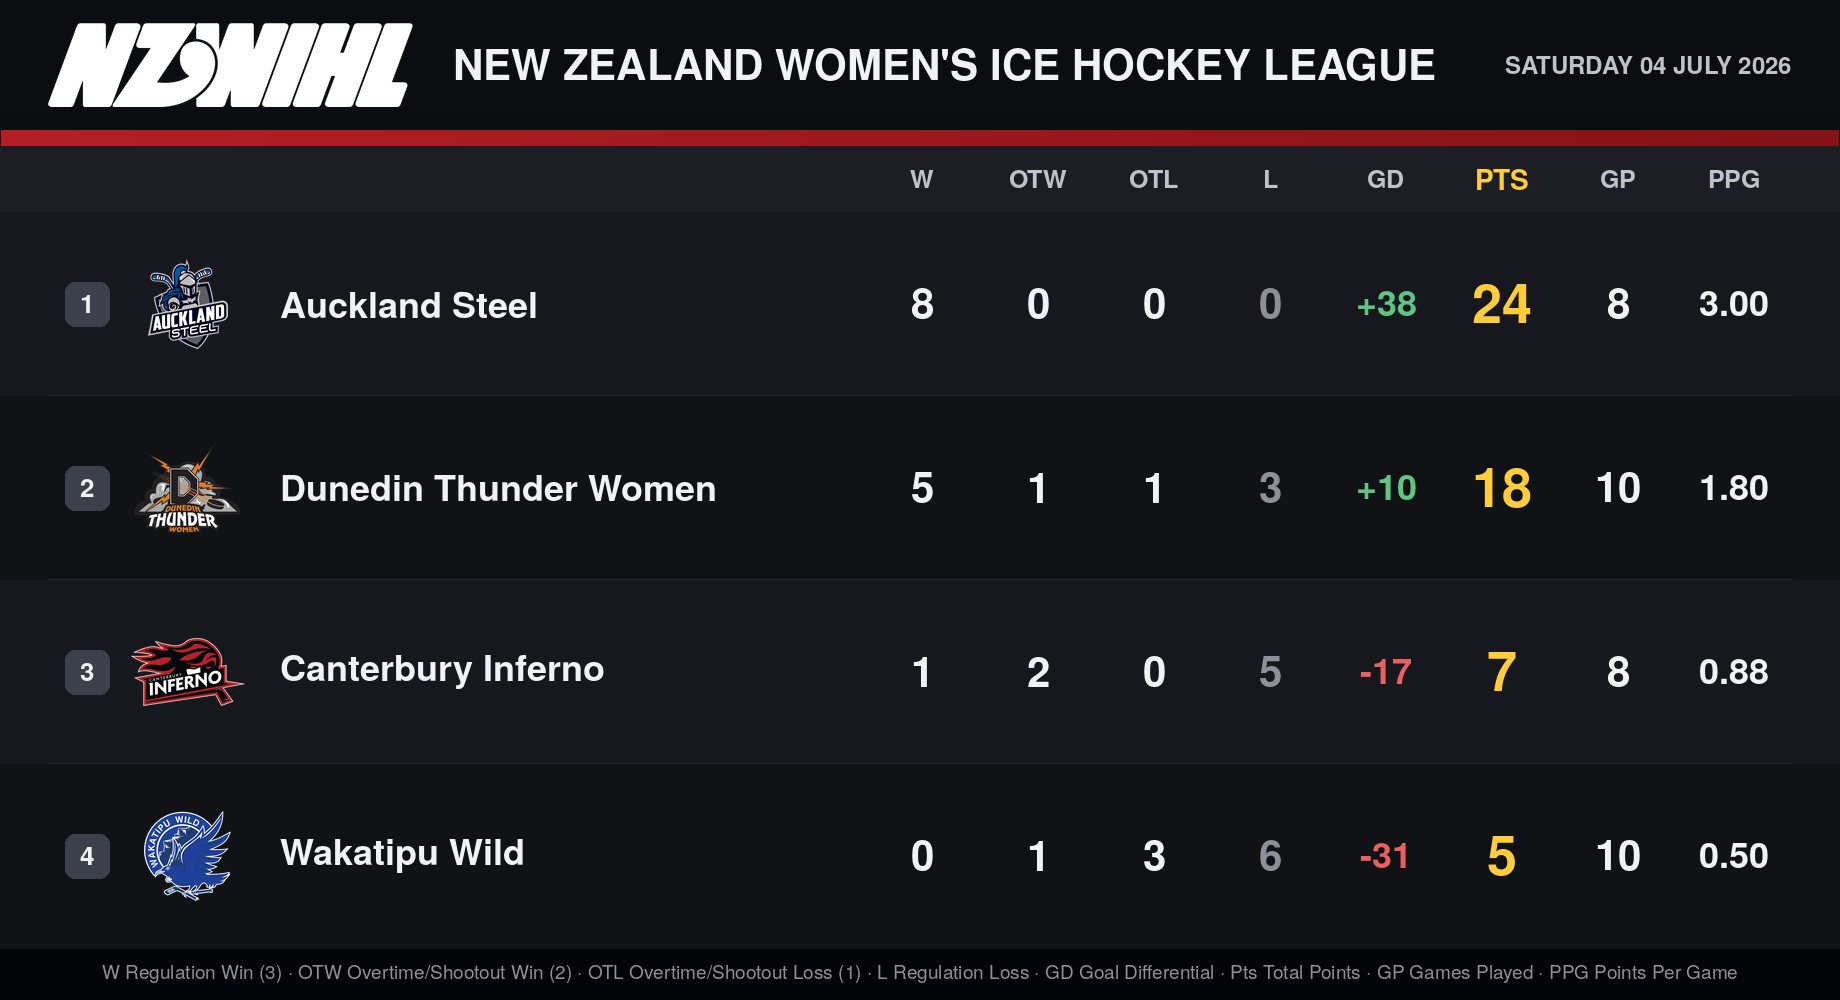
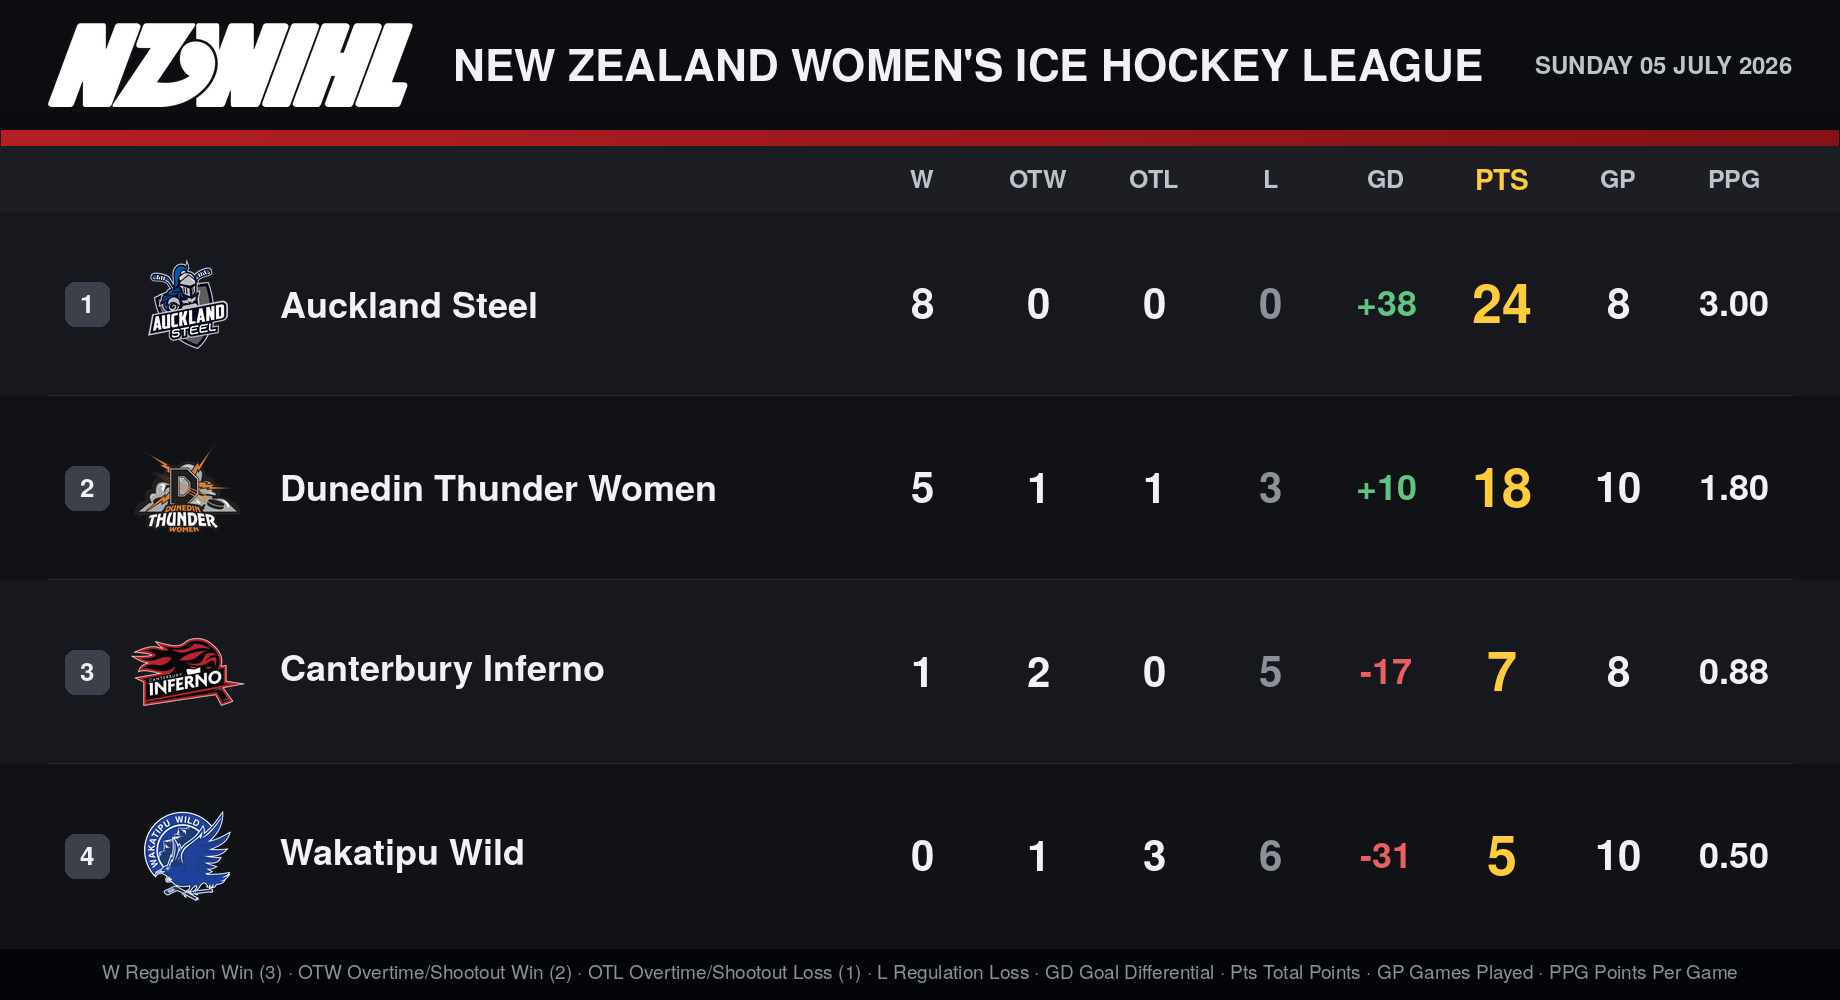
Fix standings date stamp: use NZ local date, not runner UTC date
The nightly cron fires at 14:00 UTC (02:00-03:00 NZ time), so
dt.date.today() on the ubuntu-latest runner always returned the UTC
calendar date - one day behind NZ time every single run. Graphics were
permanently dated 'yesterday'. Now uses zoneinfo Pacific/Auckland.

Changed region(s): [[0.2478, 0.031, 0.8674, 0.093]]

diff --git a/build_standings.py b/build_standings.py
@@ -16,10 +16,13 @@ import sys
 from dataclasses import dataclass
 from pathlib import Path
 from typing import Dict, List, Optional
+from zoneinfo import ZoneInfo
 
 import requests
 from bs4 import BeautifulSoup
 from PIL import Image, ImageDraw, ImageFont, ImageFilter
+
+NZ_TZ = ZoneInfo("Pacific/Auckland")
 
 # --- Paths -----------------------------------------------------------------
 HERE       = Path(__file__).resolve().parent
@@ -412,7 +415,9 @@ def render(cfg: LeagueConfig, teams: List[Dict], *,
 
     wordmark_x = LEFT_EDGE + league_logo.width + 40
     # Reserve room for the date stamp on the right side
-    date_str = dt.date.today().strftime("%A %d %B %Y").upper()
+    # Use NZ local date, not the Actions runner's UTC date — the runner's UTC
+    # clock is still "yesterday" whenever this fires at 02:00-03:00 NZ time.
+    date_str = dt.datetime.now(NZ_TZ).date().strftime("%A %d %B %Y").upper()
     date_w = draw.textbbox((0, 0), date_str, font=font(24, "bold"))[2]
     wordmark_max_w = RIGHT_EDGE - wordmark_x - date_w - 40
     # Pick the largest size that fits (fine 2pt steps so a long league name lands
